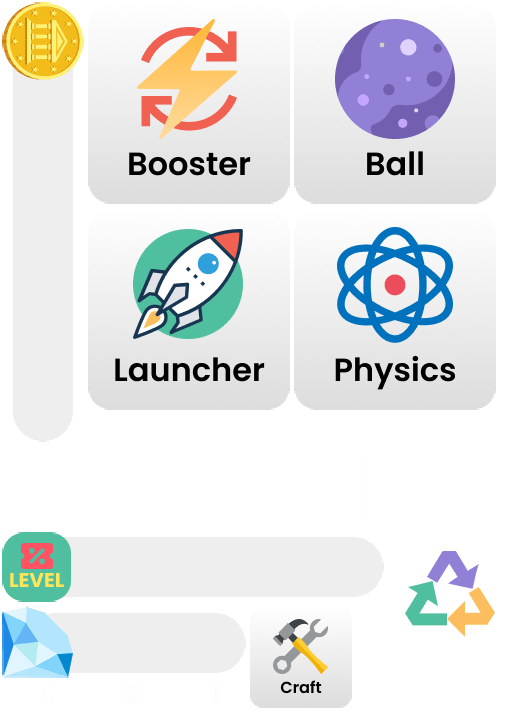
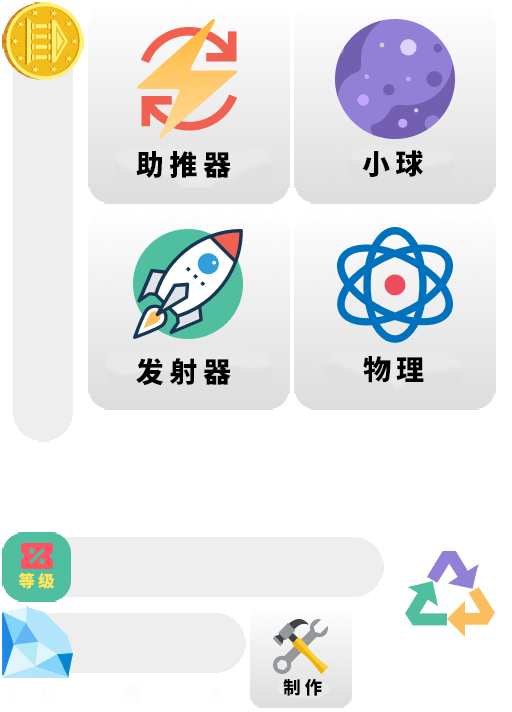
gx

diff --git a/chs.js b/chs.js
@@ -39,7 +39,7 @@ var cnItems = {
     "Completed": "已完成",
     "Achievement Gotten!": "成就达成！",
     "💡 Offline Boosters and only consumed when you are offline": "💡 离线助推器，仅在您离线时使用",
-    "# Launches": "# 启动",
+    "# Launches": "# 发射",
     "Auto Aim and Auto Collect are no longer boosters - they are now part of the launcher. This frees up two booster slots. You can turn them on/off in Launcher page": "自动瞄准和自动收集不再是助推器 - 它们现在是发射器的一部分。 这释放了两个助推器插槽。 您可以在启动器页面中打开/关闭它们",
     "Ball": "小球",
     "Crafting requirement for Rare and Epic boosters have been reduced - now you can easily craft Rare and Epic boosters.": "稀有和史诗助推器的制作要求已降低 - 现在您可以轻松制作稀有和史诗助推器。",
@@ -56,8 +56,8 @@ var cnItems = {
     "💡 You need to activate both Auto Aim and Auto Collect boosters to enable offline earning": "💡 您需要同时激活自动瞄准和自动收集助推器以启用离线收入",
     "Bounce": "弹跳",
     "Burst Count": "突发数量",
-    "Critical Bounce Boost": "暴击弹跳提升",
-    "Critical Bounce Chance": "暴击弹跳几率",
+    "Critical Bounce Boost": "临界弹跳提升",
+    "Critical Bounce Chance": "临界弹跳几率",
     "Max Speed": "最大速度",
     "Not enough gold to buy a ball": "没有足够的金币购买小球",
     "The boost that the ball will get when a critical bounce happens.": "发生关键反弹时球将获得的提升。",
